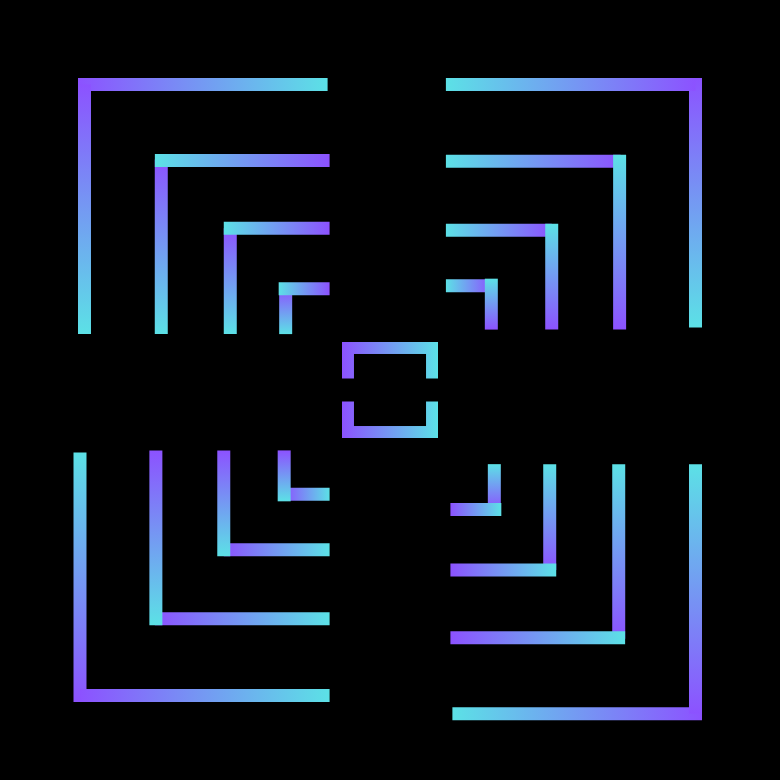
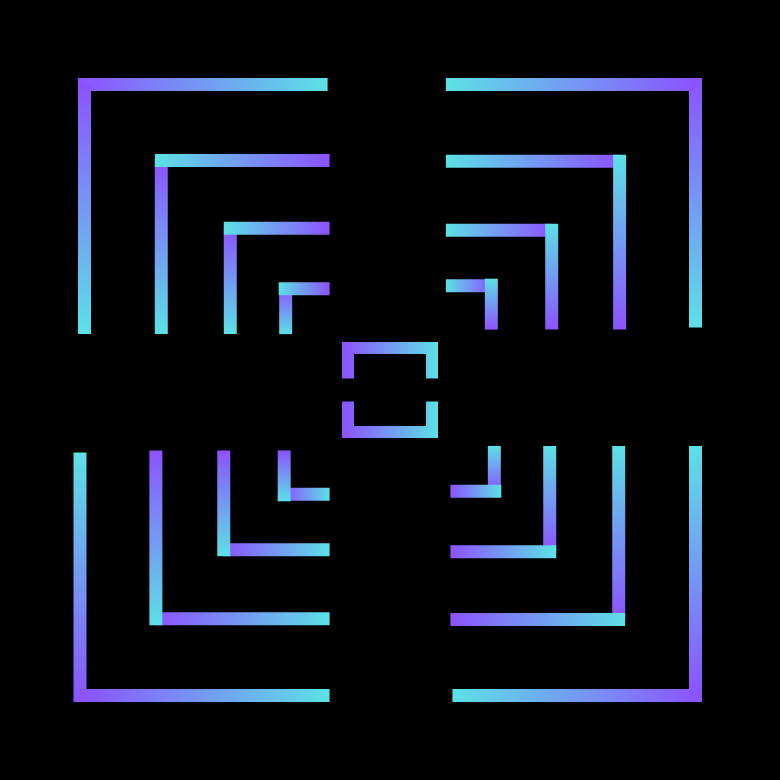
fixed maze unalignment and modifed car class a bit

diff --git a/car.h b/car.h
@@ -12,13 +12,14 @@ public:
 protected:
 	float speed;
 	Texture carTexture;
+	int currRing;
 };
 
 float Car::getSpeed() {
-
+	return speed;
 }
 void Car::setSpeed(float spd) {
-
+	speed = spd;
 }
 
 
@@ -87,7 +88,10 @@ class Enemy : Car
 {
 public:
 	Enemy(std::string png_path);
-	void move(std::string s);
+	void move();
+	void setMaxRing(int r);
+	void setCurrRing(int r);
+	void randChangeRing();
 
 private:
 	int maxRing;
@@ -97,20 +101,22 @@ Enemy::Enemy(std::string png_path)
 {
 	speed = 0.1;
 	maxRing = 0;
+	currRing = 0;
 	carTexture.loadFromFile(png_path);
 	car.setTexture(carTexture);
 	car.setPosition(340, 700);
 	car.setScale(0.75, 0.75);
 }
 
-void Enemy::move(std::string s) {
+void Enemy::move() {
 	float delta_x = 0, delta_y = 0;
+	string s = "l";
 	if (s == "l")
 		delta_x = -1;
-	//move the player left
+	//move the enemy left
 	else if (s == "r")
 		delta_x = 1;
-	//move the player right
+	//move the enemy right
 	if (s == "u")
 		delta_y = -1;
 	else if (s == "d")
@@ -121,4 +127,14 @@ void Enemy::move(std::string s) {
 
 	car.move(delta_x, delta_y);
 
+}
+
+void Enemy::setMaxRing(int r){
+	maxRing = r;
+}
+void Enemy::setCurrRing(int r){
+	maxRing = r;
+}
+void Enemy::randChangeRing(){
+	//if at turnPoint, then take random value form 0 to maxRing and change currRing to this value. Also move the car to that track
 }
